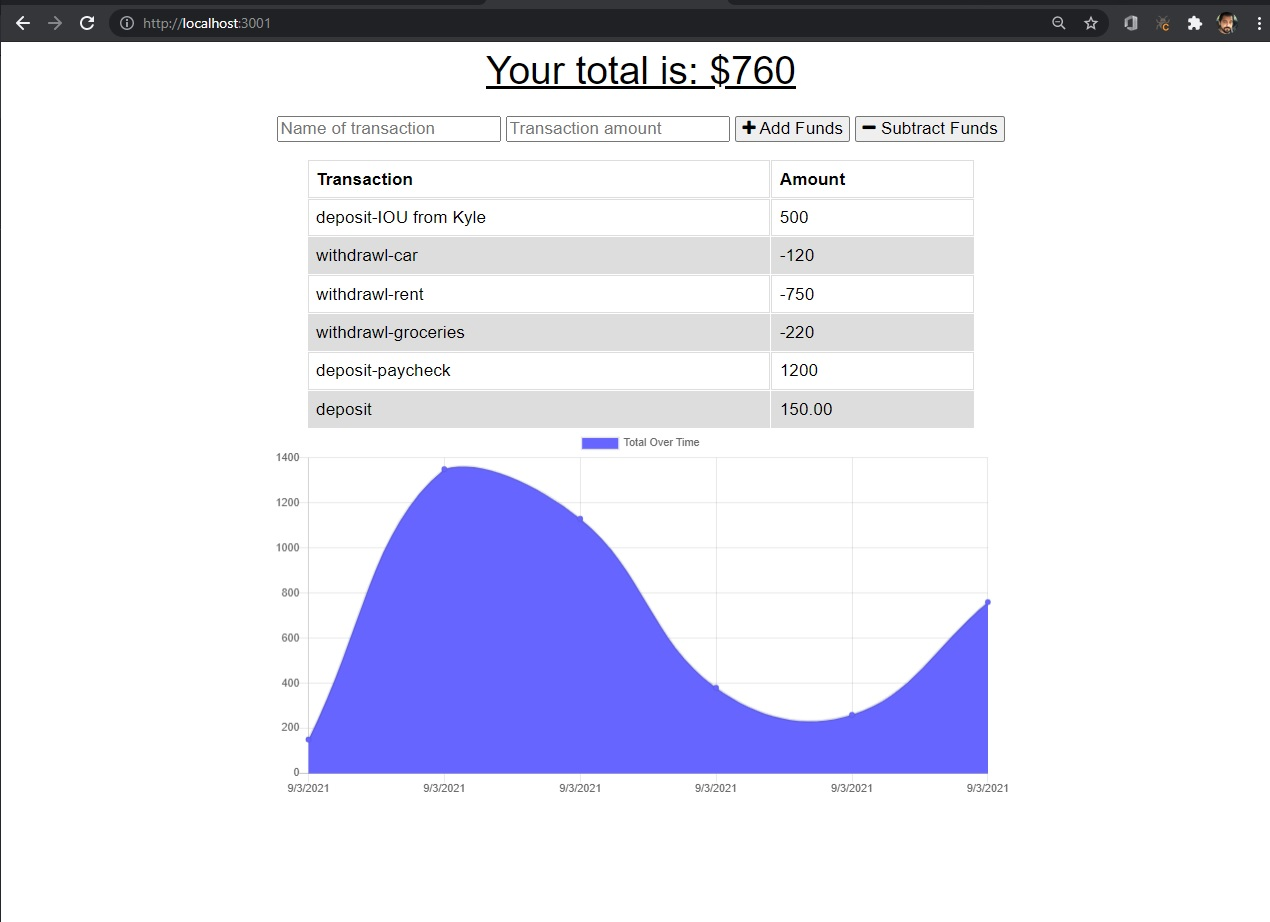
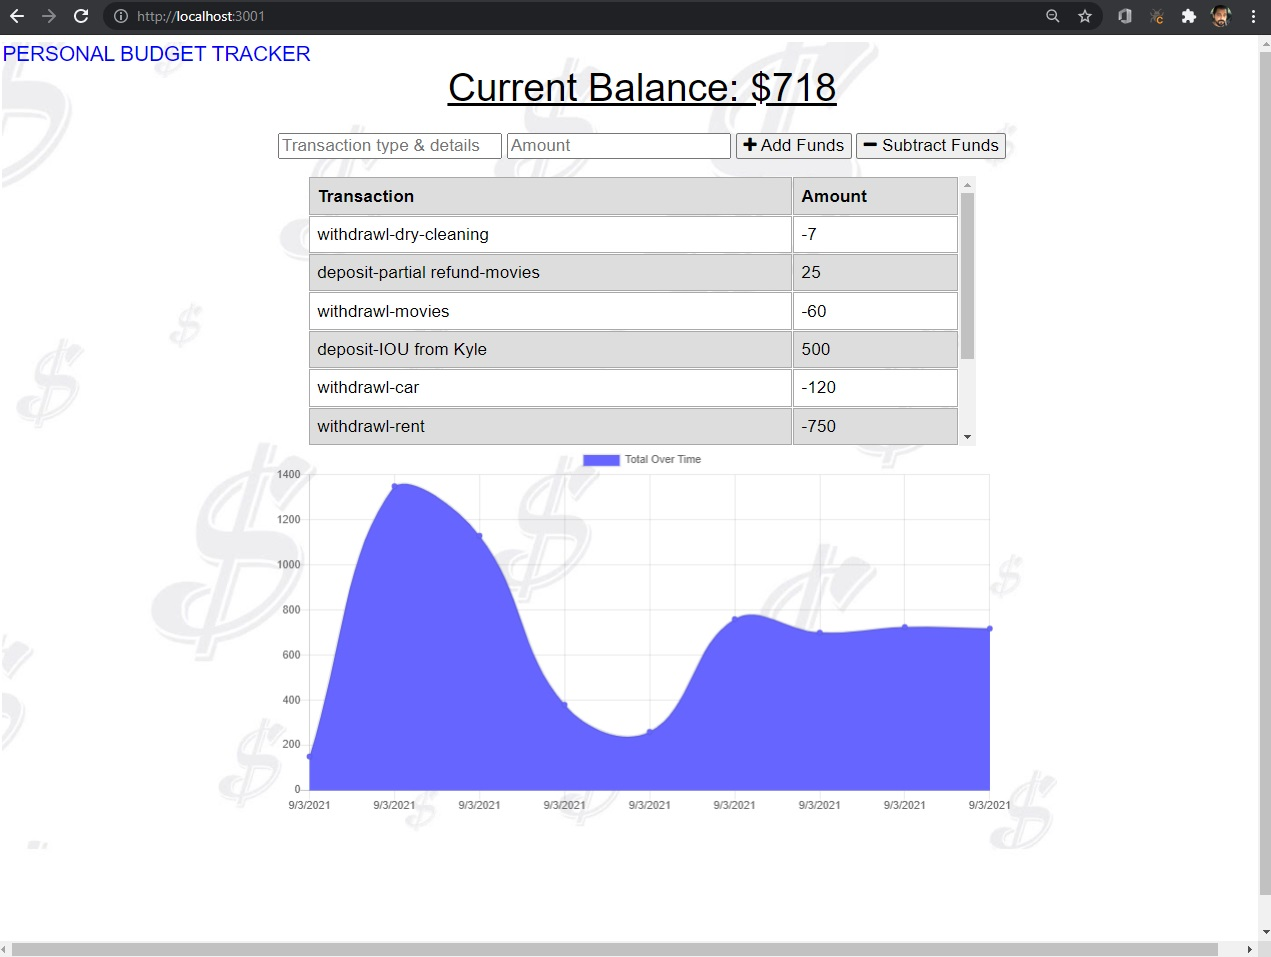
fixed idb issue, updated screenshots

diff --git a/public/index.html b/public/index.html
@@ -19,6 +19,7 @@
 <div class="bg-image" style="
 background-image: url('./assets/dollars.jpg');
 height: 100vh;
+width: 100vw;
 background-repeat: no-repeat;">
 <!-- Background image -->
   <nav class="navbar navbar-expand-lg navbar-dark bg-dark">
@@ -33,7 +34,7 @@ background-repeat: no-repeat;">
           </div>
 
           <div class="form">
-            <input type="text" id="t-name" placeholder="Transaction type & notes" />
+            <input type="text" id="t-name" placeholder="Transaction type & details" />
             <input type="number" min="0" id="t-amount" placeholder="Amount" />
             <button id="add-btn"><i class="fa fa-plus buttons"></i> Add Funds</button>
             <button id="sub-btn"><i class="fa fa-minus"></i> Subtract Funds</button>
@@ -57,6 +58,8 @@ background-repeat: no-repeat;">
       </div>
         <script src="https://cdn.jsdelivr.net/npm/chart.js@2.8.0"></script>
         <script src="js/index.js"></script>
+        <script src="js/idb.js"></script>
 </body>
+
 
 </html>

diff --git a/public/service-worker.js b/public/service-worker.js
@@ -56,7 +56,6 @@ self.addEventListener('activate', function (evt) {
 
 // Respond with cached resources
 
-Andrew(TA)  3: 47 PM
 // Intercept fetch requests
 self.addEventListener('fetch', function (evt) {
     if (evt.request.url.includes('/api/')) {

diff --git a/models/transaction.js b/models/transaction.js
@@ -7,7 +7,7 @@ const transactionSchema = new Schema(
     name: {
       type: String,
       trim: true,
-      required: "Enter a name for transaction"
+      required: "Enter transation type and details"
     },
     value: {
       type: Number,

diff --git a/README.md b/README.md
@@ -50,7 +50,7 @@ After cloning the repository, execute the following in the Command Line:
 Screenshot:
 ![screenshot](https://github.com/Mannyalfa/budget-tracker/blob/main/public/assets/screenshot.jpg)
 
-Offline usage:
+Offline transactions loading on network connect:
 ![screenshot](https://github.com/Mannyalfa/budget-tracker/blob/main/public/assets/screenshot-offline.jpg)
 
 
